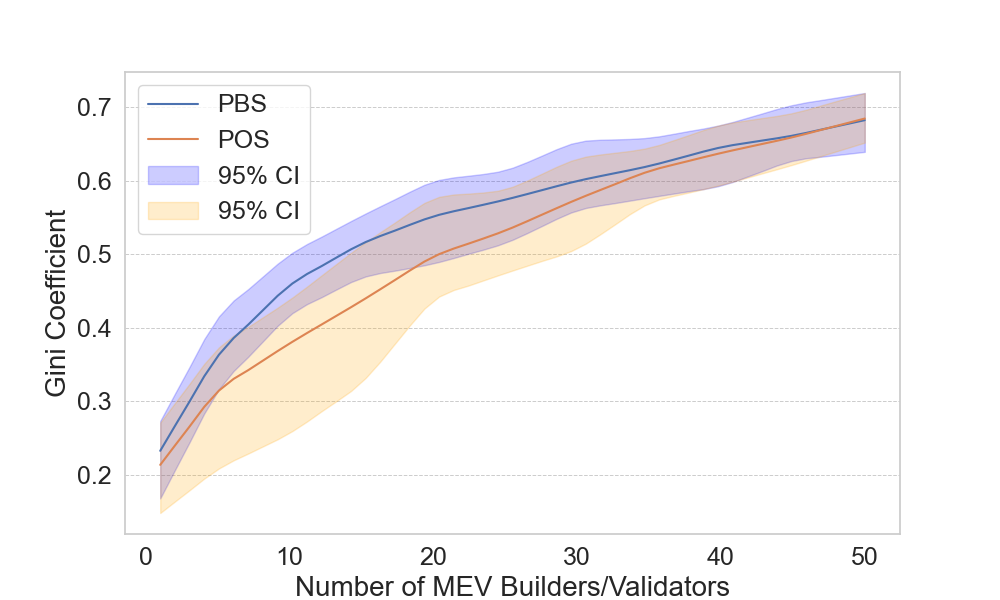
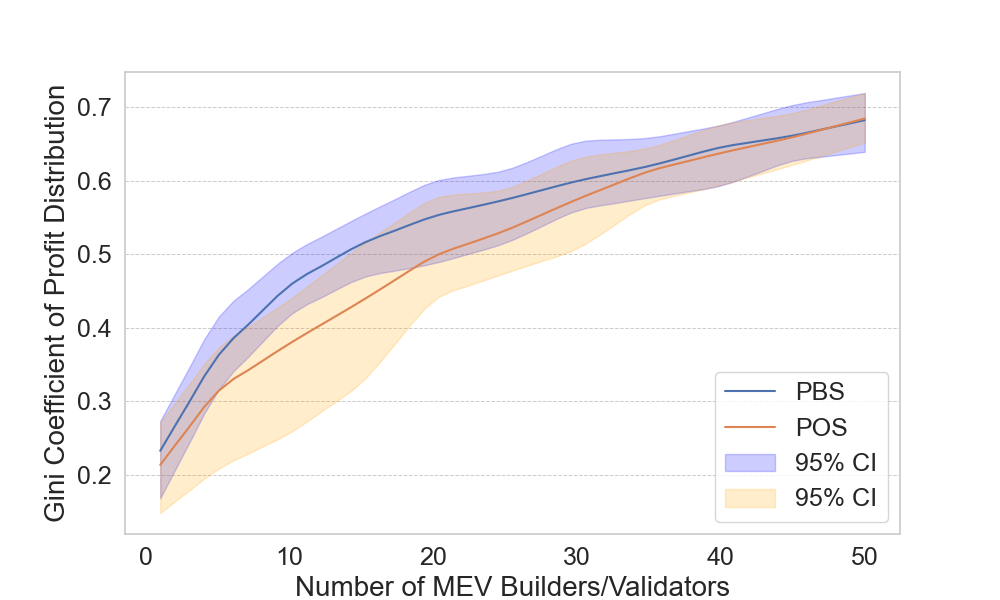
axis name

diff --git a/plots/new/vary_user.py b/plots/new/vary_user.py
@@ -100,9 +100,9 @@ def plot_gini_with_confidence(data_dir, mev_counts, output_file):
     ax.fill_between(x_pos, lower_ci_pos_smooth, upper_ci_pos_smooth, color='orange', alpha=0.2, label='95% CI')
 
     ax.set_xlabel('Number of MEV Builders/Validators', fontsize=20)
-    ax.set_ylabel('Gini Coefficient', fontsize=20)
+    ax.set_ylabel('Gini Coefficient of Profit Distribution', fontsize=20)
     ax.tick_params(axis='both', which='major', labelsize=18)
-    ax.legend(fontsize=18)
+    ax.legend(fontsize=18, loc='lower right')
     ax.grid(True)
     ax.xaxis.grid(True)
     ax.yaxis.grid(True)
